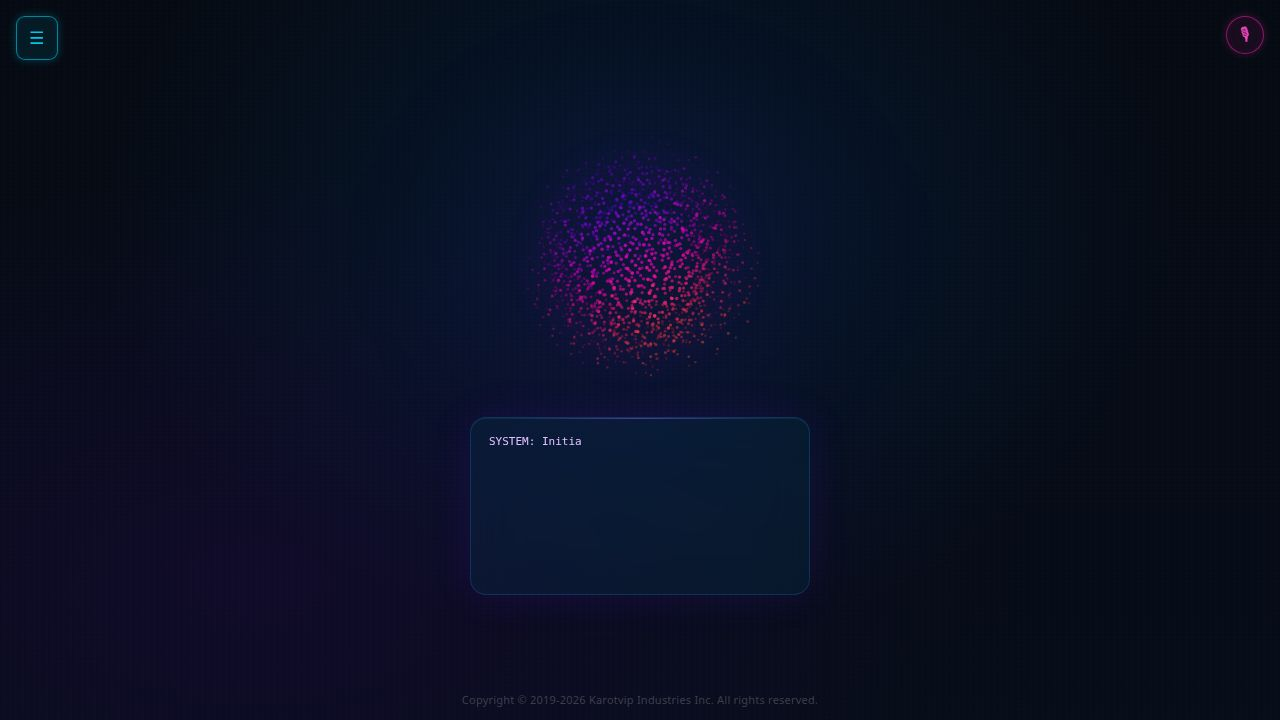
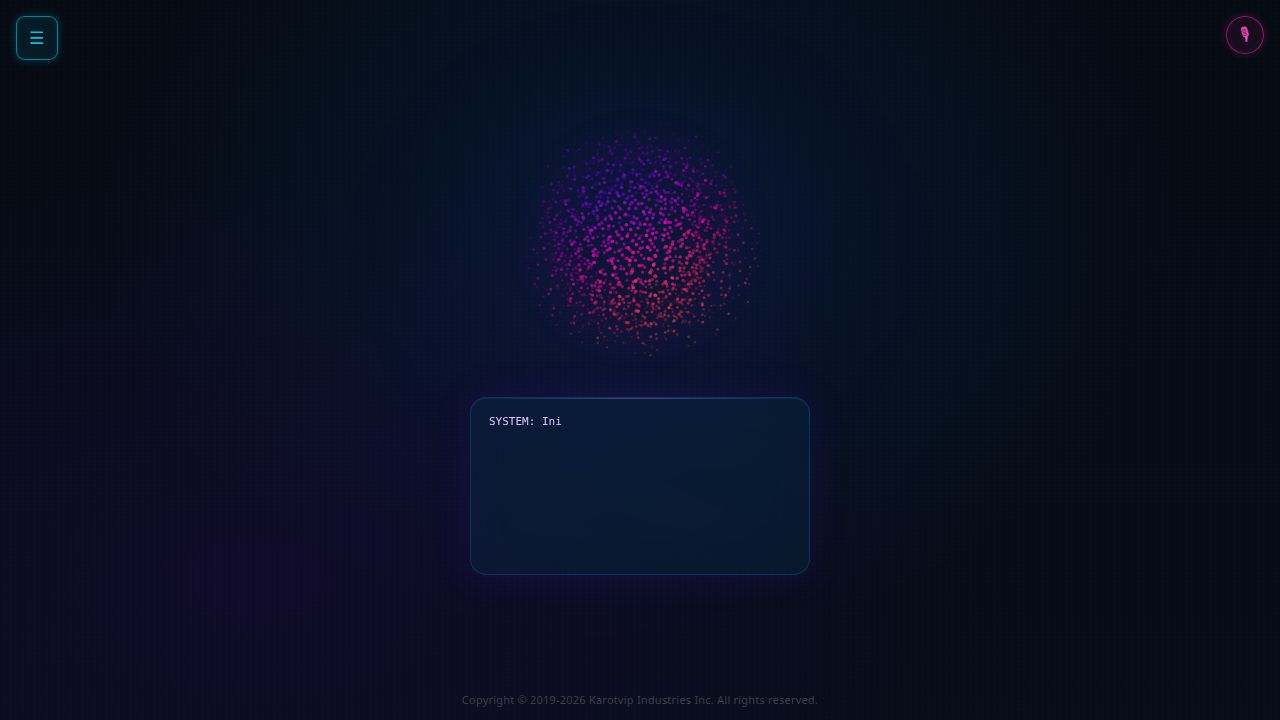
Adjust layout and add interactive plugin selection dropdowns
Update App.tsx to adjust layout margin and SidePanel.tsx to implement interactive plugin selection dropdowns with animation.

Replit-Commit-Author: Agent
Replit-Commit-Session-Id: a7354514-6acb-4c65-a75c-f6f45a5958c0
Replit-Commit-Checkpoint-Type: full_checkpoint
Replit-Commit-Event-Id: e163e1fe-9301-4b04-8ca3-92ac5ff140fb
Replit-Commit-Screenshot-Url: https://storage.googleapis.com/screenshot-production-us-central1/3447a8b3-9e77-451e-ad80-afa0777990e9/a7354514-6acb-4c65-a75c-f6f45a5958c0/zEQ3ksH
Replit-Helium-Checkpoint-Created: true

Changed region(s): [[0.4375, 0.2139, 0.5938, 0.4889], [0.375, 0.55, 0.625, 0.6111]]

diff --git a/artifacts/karotvip-ui/src/components/SidePanel.tsx b/artifacts/karotvip-ui/src/components/SidePanel.tsx
@@ -1,4 +1,4 @@
-import { useEffect, useState } from "react";
+import { useEffect, useRef, useState } from "react";
 
 type Section = "memory" | "settings" | "reminder" | "plugins" | "commands" | "addcommands" | "people";
 
@@ -18,6 +18,183 @@ const MODULES: { key: Section; name: string; color: string; icon: string }[] = [
   { key: "commands",    name: "COMMANDS",     color: "#06b6d4", icon: "⚡" },
   { key: "addcommands", name: "ADD COMMANDS", color: "#10b981", icon: "➕" },
 ];
+
+interface PluginConfig {
+  id: string;
+  label: string;
+  color: string;
+  options: string[];
+}
+
+const PLUGINS: PluginConfig[] = [
+  { id: "elevenlabs", label: "ELEVENLABS", color: "#00cfff", options: ["ElevenLabs", "Edge", "XTTS"] },
+  { id: "vosk",       label: "VOSK",       color: "#a855f7", options: ["Vosk", "Google SR"] },
+  { id: "picovoice",  label: "PICOVOICE",  color: "#22c55e", options: ["Picovoice", "Vosk", "Rustpotter"] },
+];
+
+function PluginDropdown({
+  plugin,
+  onSound,
+}: {
+  plugin: PluginConfig;
+  onSound: (t: string) => void;
+}) {
+  const [open, setOpen] = useState(false);
+  const [selected, setSelected] = useState(plugin.options[0]);
+  const ref = useRef<HTMLDivElement>(null);
+
+  // Close on outside click
+  useEffect(() => {
+    function handle(e: MouseEvent) {
+      if (ref.current && !ref.current.contains(e.target as Node)) setOpen(false);
+    }
+    document.addEventListener("mousedown", handle);
+    return () => document.removeEventListener("mousedown", handle);
+  }, []);
+
+  function toggle() {
+    setOpen(v => !v);
+    onSound(open ? "close" : "click");
+  }
+
+  function choose(opt: string) {
+    setSelected(opt);
+    setOpen(false);
+    onSound("switch");
+  }
+
+  return (
+    <div ref={ref} style={{ flex: 1, position: "relative" }}>
+      {/* Main button */}
+      <button
+        onClick={toggle}
+        style={{
+          width: "100%",
+          height: 42,
+          background: open ? `${plugin.color}18` : `${plugin.color}0a`,
+          border: `1px solid ${open ? plugin.color + "55" : plugin.color + "28"}`,
+          borderRadius: open ? "8px 8px 0 0" : 8,
+          cursor: "pointer",
+          display: "flex",
+          flexDirection: "column",
+          alignItems: "center",
+          justifyContent: "center",
+          gap: 2,
+          padding: "4px 6px",
+          transition: "all 0.20s ease",
+          boxShadow: open ? `0 0 14px ${plugin.color}30` : "none",
+          position: "relative",
+        }}
+        onMouseEnter={() => onSound("hover")}
+      >
+        {/* Waveform bars */}
+        <div style={{ display: "flex", gap: 2, alignItems: "flex-end", height: 14 }}>
+          {[3, 6, 4, 7, 5, 8, 4].map((h, i) => (
+            <div key={i} style={{
+              width: 2, height: h,
+              background: plugin.color,
+              borderRadius: 1,
+              opacity: open ? 1 : 0.75,
+              transition: "opacity 0.2s",
+            }} />
+          ))}
+        </div>
+        {/* Selected label */}
+        <span style={{
+          fontSize: 7,
+          color: open ? plugin.color : "rgba(255,255,255,0.50)",
+          letterSpacing: "0.05em",
+          fontFamily: "'Courier New', monospace",
+          fontWeight: "bold",
+          transition: "color 0.2s",
+          whiteSpace: "nowrap",
+          overflow: "hidden",
+          textOverflow: "ellipsis",
+          maxWidth: "100%",
+        }}>
+          {selected.toUpperCase()}
+        </span>
+        {/* Chevron */}
+        <span style={{
+          position: "absolute",
+          right: 4, top: 4,
+          fontSize: 7,
+          color: `${plugin.color}80`,
+          transform: open ? "rotate(180deg)" : "rotate(0deg)",
+          transition: "transform 0.2s ease",
+        }}>▾</span>
+      </button>
+
+      {/* Dropdown */}
+      <div style={{
+        position: "absolute",
+        top: "100%",
+        left: 0, right: 0,
+        background: "rgba(4, 12, 26, 0.97)",
+        border: `1px solid ${plugin.color}40`,
+        borderTop: "none",
+        borderRadius: "0 0 8px 8px",
+        overflow: "hidden",
+        maxHeight: open ? 200 : 0,
+        opacity: open ? 1 : 0,
+        transition: "max-height 0.26s cubic-bezier(0.22,1,0.36,1), opacity 0.20s ease",
+        zIndex: 400,
+        boxShadow: open ? `0 8px 24px rgba(0,0,0,0.5), 0 0 18px ${plugin.color}18` : "none",
+      }}>
+        {plugin.options.map((opt, i) => {
+          const isActive = opt === selected;
+          return (
+            <button
+              key={opt}
+              onClick={() => choose(opt)}
+              style={{
+                width: "100%",
+                padding: "7px 10px",
+                background: isActive ? `${plugin.color}18` : "transparent",
+                border: "none",
+                borderBottom: i < plugin.options.length - 1
+                  ? `1px solid ${plugin.color}15`
+                  : "none",
+                cursor: "pointer",
+                textAlign: "left",
+                color: isActive ? plugin.color : "rgba(255,255,255,0.55)",
+                fontSize: 9,
+                fontFamily: "'Courier New', monospace",
+                fontWeight: isActive ? "bold" : "normal",
+                letterSpacing: "0.06em",
+                transition: "background 0.15s, color 0.15s",
+                display: "flex",
+                alignItems: "center",
+                gap: 6,
+              }}
+              onMouseEnter={e => {
+                if (!isActive) {
+                  e.currentTarget.style.background = `${plugin.color}10`;
+                  e.currentTarget.style.color = `${plugin.color}cc`;
+                }
+              }}
+              onMouseLeave={e => {
+                if (!isActive) {
+                  e.currentTarget.style.background = "transparent";
+                  e.currentTarget.style.color = "rgba(255,255,255,0.55)";
+                }
+              }}
+            >
+              <span style={{
+                width: 5, height: 5, borderRadius: "50%",
+                background: isActive ? plugin.color : "rgba(255,255,255,0.2)",
+                flexShrink: 0,
+                boxShadow: isActive ? `0 0 6px ${plugin.color}` : "none",
+                transition: "all 0.15s",
+              }} />
+              {opt.toUpperCase()}
+            </button>
+          );
+        })}
+      </div>
+    </div>
+  );
+}
 
 export function SidePanel({ open, onClose, onSound, onOpenSection }: SidePanelProps) {
   const [hovered, setHovered] = useState<string | null>(null);
@@ -54,8 +231,7 @@ export function SidePanel({ open, onClose, onSound, onOpenSection }: SidePanelPr
       <div
         style={{
           position: "fixed",
-          top: 0,
-          left: 0,
+          top: 0, left: 0,
           width: 264,
           height: "100%",
           background: "rgba(4, 12, 26, 0.96)",
@@ -110,54 +286,19 @@ export function SidePanel({ open, onClose, onSound, onOpenSection }: SidePanelPr
           >✕</button>
         </div>
 
-        {/* Plugin icons row */}
+        {/* Plugin dropdowns row */}
         <div style={{
-          padding: "14px 18px",
+          padding: "14px 14px 18px",
           display: "flex",
-          gap: 10,
+          gap: 8,
           borderBottom: "1px solid rgba(0,180,255,0.08)",
           flexShrink: 0,
+          alignItems: "flex-start",
+          position: "relative",
+          zIndex: 350,
         }}>
-          {[
-            { name: "ELEVENLABS", color: "#00cfff" },
-            { name: "VOSK",       color: "#a855f7" },
-            { name: "PICOVOICE",  color: "#22c55e" },
-          ].map(p => (
-            <div key={p.name} style={{
-              flex: 1,
-              display: "flex",
-              flexDirection: "column",
-              alignItems: "center",
-              gap: 6,
-            }}>
-              <div style={{
-                width: "100%",
-                height: 38,
-                background: `${p.color}0a`,
-                border: `1px solid ${p.color}25`,
-                borderRadius: 8,
-                display: "flex",
-                alignItems: "center",
-                justifyContent: "center",
-              }}>
-                <div style={{ display: "flex", gap: 2, alignItems: "flex-end", height: 18 }}>
-                  {[3, 6, 4, 7, 5, 8, 4].map((h, i) => (
-                    <div key={i} style={{
-                      width: 2.5, height: h,
-                      background: p.color,
-                      borderRadius: 1,
-                      opacity: 0.8,
-                    }} />
-                  ))}
-                </div>
-              </div>
-              <span style={{
-                fontSize: 8, color: "rgba(255,255,255,0.35)",
-                letterSpacing: "0.04em", fontFamily: "'Courier New', monospace",
-              }}>
-                {p.name}
-              </span>
-            </div>
+          {PLUGINS.map(p => (
+            <PluginDropdown key={p.id} plugin={p} onSound={onSound} />
           ))}
         </div>
 
@@ -196,7 +337,6 @@ export function SidePanel({ open, onClose, onSound, onOpenSection }: SidePanelPr
                   textAlign: "left",
                 }}
               >
-                {/* Color dot */}
                 <div style={{
                   width: 28, height: 28,
                   borderRadius: 8,
@@ -223,7 +363,6 @@ export function SidePanel({ open, onClose, onSound, onOpenSection }: SidePanelPr
                   {item.name}
                 </span>
 
-                {/* Arrow */}
                 <div style={{
                   marginLeft: "auto",
                   color: isHov ? item.color : "rgba(255,255,255,0.15)",

diff --git a/artifacts/karotvip-ui/src/App.tsx b/artifacts/karotvip-ui/src/App.tsx
@@ -138,6 +138,7 @@ export default function App() {
         flexDirection: "column",
         alignItems: "center",
         gap: 0,
+        marginTop: -40,
       }}>
         {/* Particle sphere */}
         <div style={{ marginBottom: 22 }}>